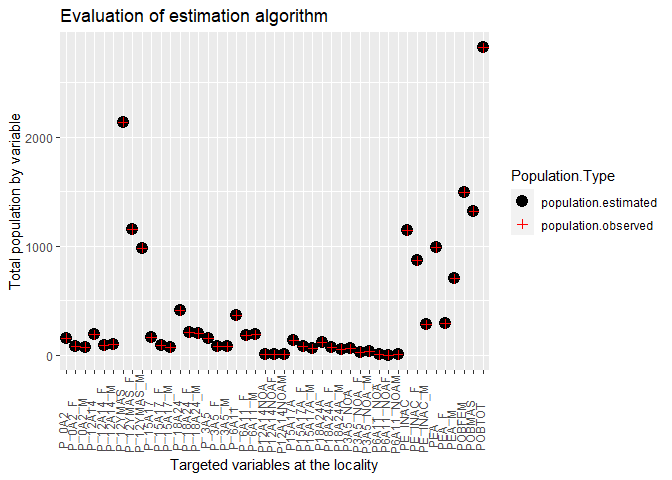
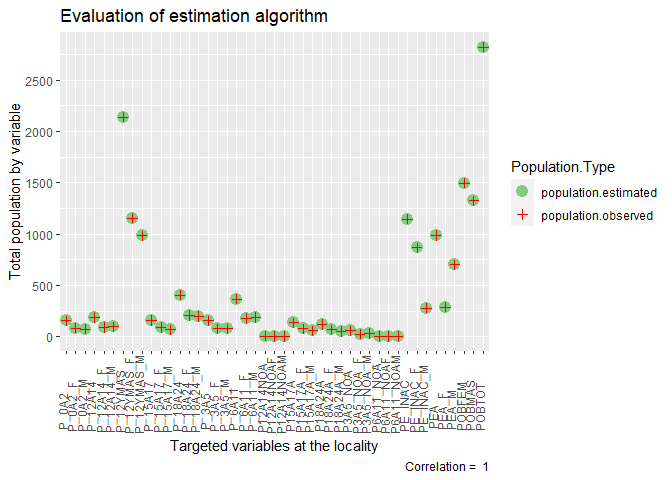
Plots finished Rmd

diff --git a/doc/1-Private-data-estimation-Hue_CPV2010.md b/doc/1-Private-data-estimation-Hue_CPV2010.md
@@ -18,7 +18,7 @@ Author: Néstor de la Paz Ruíz
       - [2.3 Extra conditionals (M, F)](#23-extra-conditionals-m-f)
   - [3 Generic cleaning function](#3-generic-cleaning-function)
   - [4 Results](#4-results)
-      - [4.1.1 Evaluation](#411-evaluation)
+      - [4.1 sGISc Conference Poster](#41-sgisc-conference-poster)
 
 # 1\. Introduction
 
@@ -47,79 +47,24 @@ variables will be used to simulate the dynamics of the `mobility`,
     ## [36] "P15A17A_F"  "P18A24A"    "P18A24A_M"  "P18A24A_F"  "PEA"       
     ## [41] "PEA_M"      "PEA_F"      "PE_INAC"    "PE_INAC_M"  "PE_INAC_F"
 
-    ##  [1] "POBTOT.f"     "POBMAS.f"     "POBFEM.f"     "P_12YMAS.f"   "P_12YMAS_M.f"
-    ##  [6] "P_12YMAS_F.f" "P_0A2.f"      "P_0A2_M.f"    "P_0A2_F.f"    "P_3A5.f"     
-    ## [11] "P_3A5_M.f"    "P_3A5_F.f"    "P_6A11.f"     "P_6A11_M.f"   "P_6A11_F.f"  
-    ## [16] "P_12A14.f"    "P_12A14_M.f"  "P_12A14_F.f"  "P_15A17.f"    "P_15A17_M.f" 
-    ## [21] "P_15A17_F.f"  "P_18A24.f"    "P_18A24_M.f"  "P_18A24_F.f"  "P3A5_NOA.f"  
-    ## [26] "P3A5_NOA_M.f" "P3A5_NOA_F.f" "P6A11_NOA.f"  "P6A11_NOAM.f" "P6A11_NOAF.f"
-    ## [31] "P12A14NOA.f"  "P12A14NOAM.f" "P12A14NOAF.f" "P15A17A.f"    "P15A17A_M.f" 
-    ## [36] "P15A17A_F.f"  "P18A24A.f"    "P18A24A_M.f"  "P18A24A_F.f"  "PEA.f"       
-    ## [41] "PEA_M.f"      "PEA_F.f"      "PE_INAC.f"    "PE_INAC_M.f"  "PE_INAC_F.f"
-
 ## 1.2 `NA` Values
 
 *NA* cells exits as a mean of privacy protection. The raw data by block
 demonstrate presence of *NA* values equal to **829** cells. A preview of
 data missing due to privacy looks like the following:
 
-    ##    P_0A2 P_0A2_M P_0A2_F P_3A5 P_3A5_M P_3A5_F P_6A11 P_6A11_M P_6A11_F
-    ## 1      0       0       0    NA       0      NA     NA       NA        0
-    ## 2      4      NA      NA     4       3      NA      6        4       NA
-    ## 3      3      NA      NA     4       3      NA      6        3        3
-    ## 4     NA      NA       0    NA       0      NA      0        0        0
-    ## 5     NA       0      NA     0       0       0      8        5        3
-    ## 6     NA      NA       0    NA       0      NA     NA       NA        0
-    ## 7      7       3       4     3       3       0     12        4        8
-    ## 8     NA      NA       0    NA       0      NA      7        4        3
-    ## 9     NA      NA       0     7       4       3      8        5        3
-    ## 10     3      NA      NA    NA       0      NA      7        4        3
-    ## 11     4      NA       3    NA       0      NA      7        3        4
-    ## 12    NA      NA      NA    NA       0      NA      7        3        4
-    ## 13    NA      NA      NA    NA      NA      NA     NA       NA       NA
-    ## 14     0       0       0    NA      NA       0      4        3       NA
-    ## 15     0       0       0     0       0       0      4        3       NA
-    ## 16     0       0       0     0       0       0     NA        0       NA
-    ## 17     7       4       3    10       7       3     14        8        6
-    ## 18     0       0       0     3      NA      NA     NA       NA        0
-    ## 19    NA      NA       0     3      NA      NA      8        5        3
-    ## 20     5      NA       4     4      NA       3      5       NA        4
-    ## 21     3      NA      NA    NA      NA       0      5        3       NA
-    ## 22     0       0       0    NA      NA       0      4        3       NA
-    ## 23     3      NA      NA     3       0       3     10        7        3
-    ## 24     8       5       3     8      NA       7     21        8       13
-    ## 25     8      NA       6     8       4       4     21       10       11
-    ## 26     3       3       0    NA      NA      NA      4       NA        3
-    ## 27     4      NA      NA     6       3       3     19       10        9
-    ## 28    NA      NA       0    NA      NA      NA     NA       NA        0
-    ## 29     3      NA      NA     5      NA       3     11        4        7
-    ## 30    NA      NA       0    NA      NA       0      4       NA        3
-    ## 31     7      NA       5     4      NA       3      8        6       NA
-    ## 32    NA      NA       0     7      NA       5     14        4       10
-    ## 33     9       5       4     4      NA      NA     10        6        4
-    ## 34     8      NA       6    NA      NA      NA      3       NA       NA
-    ## 35     4      NA       3     4      NA       3      9        4        5
-    ## 36     4      NA      NA     5      NA       4     11        6        5
-    ## 37    NA       0      NA    NA      NA       0      5       NA        3
-    ## 38    NA      NA      NA    NA      NA      NA     NA       NA       NA
-    ## 39    NA      NA      NA     0       0       0      4       NA       NA
-    ## 40     8       4       4     8       6      NA     18        9        9
-    ## 41     0       0       0     0       0       0     NA       NA        0
-    ## 42    NA      NA       0     3      NA      NA      3       NA       NA
-    ## 43     3      NA      NA    NA      NA       0      5        4       NA
-    ## 44     5       3      NA    11       6       5     13        8        5
-    ## 45    NA      NA      NA    NA       0      NA     NA       NA        0
-    ## 46     5      NA       4    NA      NA      NA     14        8        6
-    ## 47     3      NA      NA     3      NA      NA      9        3        6
-    ## 48    NA       0      NA     5      NA       3      5       NA        3
-    ## 49     3      NA      NA    NA      NA       0      3       NA       NA
-    ## 50     5      NA       3    NA      NA      NA      6       NA        4
-    ## 51    NA      NA      NA    NA      NA      NA     NA       NA       NA
-    ## 52    NA      NA      NA    NA      NA      NA     NA       NA       NA
-    ## 53     0       0       0    NA      NA      NA      3        0        3
-    ## 54    NA      NA      NA    NA      NA      NA     NA       NA       NA
-    ## 55    NA      NA      NA    NA      NA      NA     NA       NA       NA
-    ## 56     0       0       0     0       0       0      4        3       NA
+| P\_0A2 | P\_0A2\_M | P\_0A2\_F | P\_3A5 | P\_3A5\_M | P\_3A5\_F | P\_6A11 | P\_6A11\_M | P\_6A11\_F |
+| -----: | --------: | --------: | -----: | --------: | --------: | ------: | ---------: | ---------: |
+|      0 |         0 |         0 |     NA |         0 |        NA |      NA |         NA |          0 |
+|      4 |        NA |        NA |      4 |         3 |        NA |       6 |          4 |         NA |
+|      3 |        NA |        NA |      4 |         3 |        NA |       6 |          3 |          3 |
+|     NA |        NA |         0 |     NA |         0 |        NA |       0 |          0 |          0 |
+|     NA |         0 |        NA |      0 |         0 |         0 |       8 |          5 |          3 |
+|     NA |        NA |         0 |     NA |         0 |        NA |      NA |         NA |          0 |
+|      7 |         3 |         4 |      3 |         3 |         0 |      12 |          4 |          8 |
+|     NA |        NA |         0 |     NA |         0 |        NA |       7 |          4 |          3 |
+|     NA |        NA |         0 |      7 |         4 |         3 |       8 |          5 |          3 |
+|      3 |        NA |        NA |     NA |         0 |        NA |       7 |          4 |          3 |
 
 <br>
 
@@ -524,7 +469,7 @@ Summary after cleaning `P_18A24_M` (eliminated `NA` values):
 
 ![](1-Private-data-estimation-Hue_CPV2010_files/figure-gfm/unnamed-chunk-15-1.png)<!-- -->
 
-\#\#4.1 sGISc Conference Poster
+## 4.1 sGISc Conference Poster
 
 This section refers to the results figures presented at the IGISc
 International Conference on Geospatial Information Sciences at
@@ -532,42 +477,49 @@ CentroGeo, Mexico.
 
 ### 4.1.1 Evaluation
 
-Section 2.1 introduce the target of the algorithm which is the base of
-an evaluation. The evaluation applies for the four variales of
-`Population totals`, `age-ranges and sex`, `assistance or not to
-school`, `actively economically or not (work)`. The results evaluation
-demonstrate that the algorithm target is fulfill considering the
-following criteria:
+Section 2.1 introduce the target of the algorithm which is the base to
+apply an evaluation. The evaluation applies for the `age-ranges and
+gender`, `school`, and `work` related variables. The variables are
+compared with their respective total values at the spatial units of
+locality and block. The results evaluation demonstrate that the
+algorithm target is fulfilled considering the following two criteria:
 
-  - `Comparing values between the observed census data of the totals by
-    locality per variable with the estimated values`
+  - `1. Comparing values between the observed census data of the totals
+    by locality per variable with estimated values.`
 
-| Observed totals by locality          | Estimated totals by locality     |
-| ------------------------------------ | -------------------------------- |
-| A known value of a targeted variable | Sum of estimated values by block |
+| Observed totals by locality        | Estimated totals by locality                                                                                |
+| ---------------------------------- | ----------------------------------------------------------------------------------------------------------- |
+| Known value of a targeted variable | Defined with the sum of estimated values of many blocks that compound the target variables (sum by columns) |
 
 The bellow graph shows a comparison of observed and estimated totals by
 locality of the variables of interest.
 
 ![](1-Private-data-estimation-Hue_CPV2010_files/figure-gfm/unnamed-chunk-16-1.png)<!-- -->
 
-  - `Comparing values between the observed census data of the totals by
-    locality per variable with the estimated values`
+  - `2. Comparing values between the observed census data of the totals
+    by block per variable with estimated values.`
 
-e the algorithm performace a com verify how good is the population
-census estimation algorithm is presented as follows:
+| Observed totals by blocks          | Estimated totals by blocks                                                                               |
+| ---------------------------------- | -------------------------------------------------------------------------------------------------------- |
+| Known value of a targeted variable | Defined with the sum of estimated values of many blocks that compound the target variables (sum by rows) |
 
-| Targeted totals                              | Performance evaluation                                                      |
-| -------------------------------------------- | --------------------------------------------------------------------------- |
-| By column: Targeted variable of the locality | .                                                                           |
-| By row                                       | Making sure that the totals a block are not overestimated.                  |
-| By gender                                    | Consideration in the desagregation of the totals by gender (and their sum). |
+The bellow graph shows a comparison of observed and estimated totals by
+block of the variables of interest.
 
-The variables selected represent the following categories:
+![](1-Private-data-estimation-Hue_CPV2010_files/figure-gfm/unnamed-chunk-17-1.png)<!-- -->
+<br>
 
-  - `Population totals`
-      - `Age-ranges and sex`
-      - `Assistance or not to school`
-      - `Actively economically or not (work)`
+The bellow table is a sample of filled NA values.
 
-The following statistics represent are the verification of results.
+| P\_0A2.f | P\_0A2\_M.f | P\_0A2\_F.f | P\_3A5.f | P\_3A5\_M.f | P\_3A5\_F.f | P\_6A11.f | P\_6A11\_M.f | P\_6A11\_F.f |
+| -------: | ----------: | ----------: | -------: | ----------: | ----------: | --------: | -----------: | -----------: |
+|        0 |           0 |           0 |        2 |           0 |           2 |         2 |            2 |            0 |
+|        4 |           2 |           2 |        4 |           3 |           1 |         6 |            4 |            2 |
+|        3 |           1 |           2 |        4 |           3 |           1 |         6 |            3 |            3 |
+|        2 |           2 |           0 |        2 |           0 |           2 |         0 |            0 |            0 |
+|        2 |           0 |           2 |        0 |           0 |           0 |         8 |            5 |            3 |
+|        2 |           2 |           0 |        2 |           0 |           2 |         2 |            2 |            0 |
+|        7 |           3 |           4 |        3 |           3 |           0 |        12 |            4 |            8 |
+|        2 |           2 |           0 |        2 |           0 |           2 |         7 |            4 |            3 |
+|        2 |           2 |           0 |        7 |           4 |           3 |         8 |            5 |            3 |
+|        3 |           1 |           2 |        2 |           0 |           2 |         7 |            4 |            3 |
